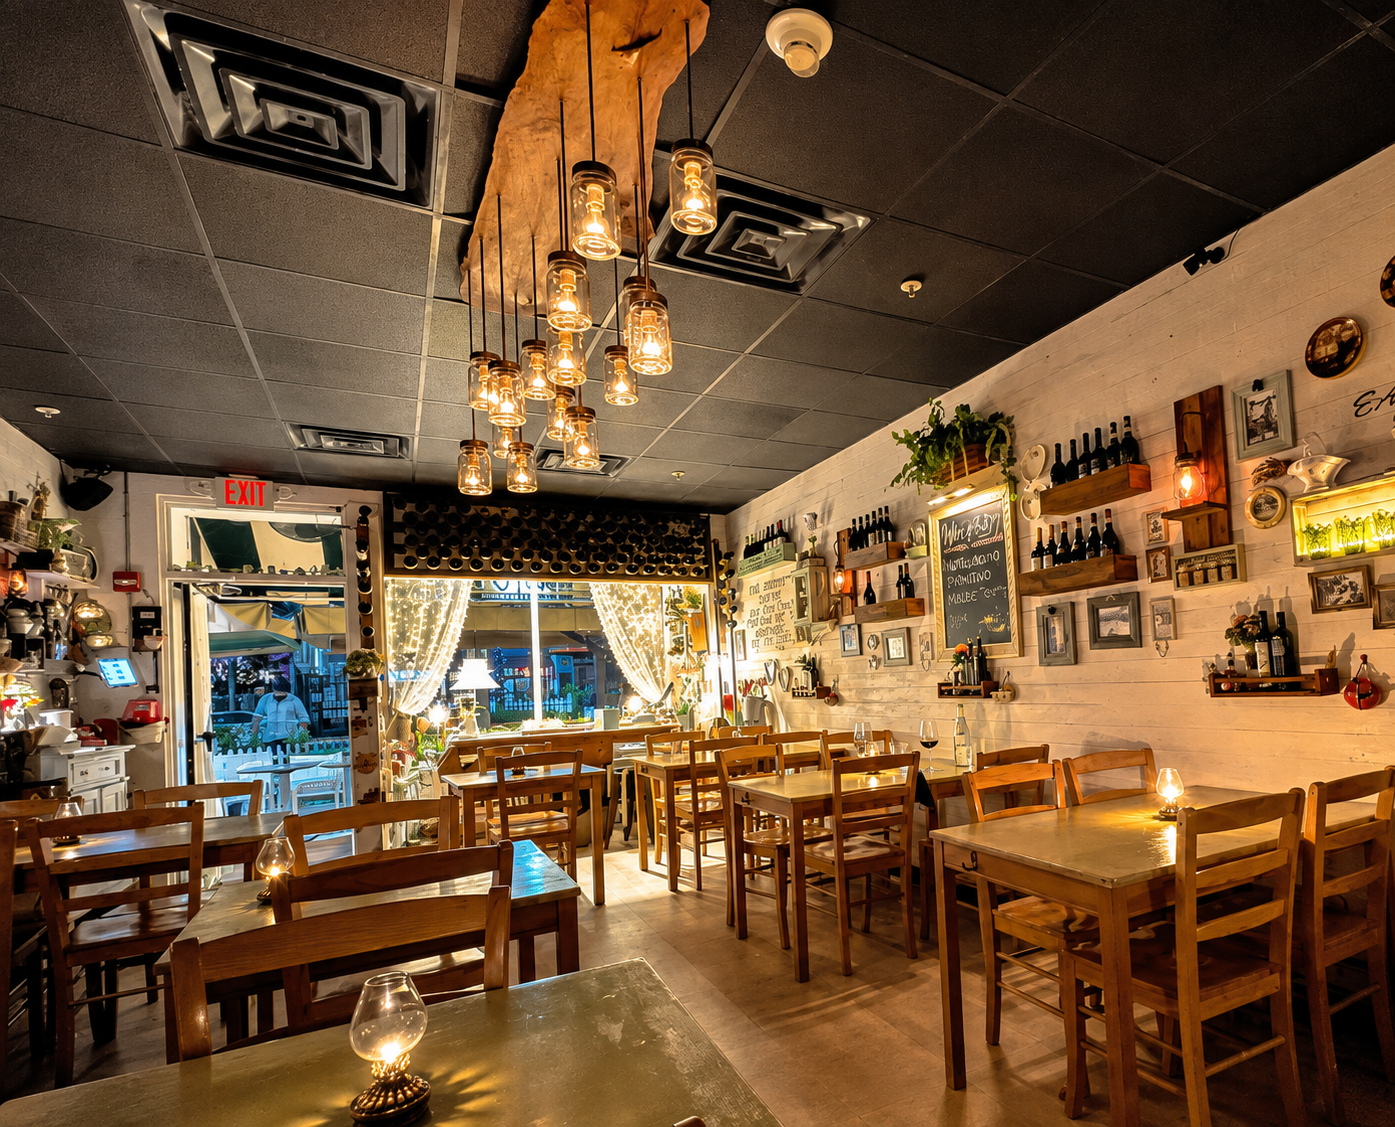
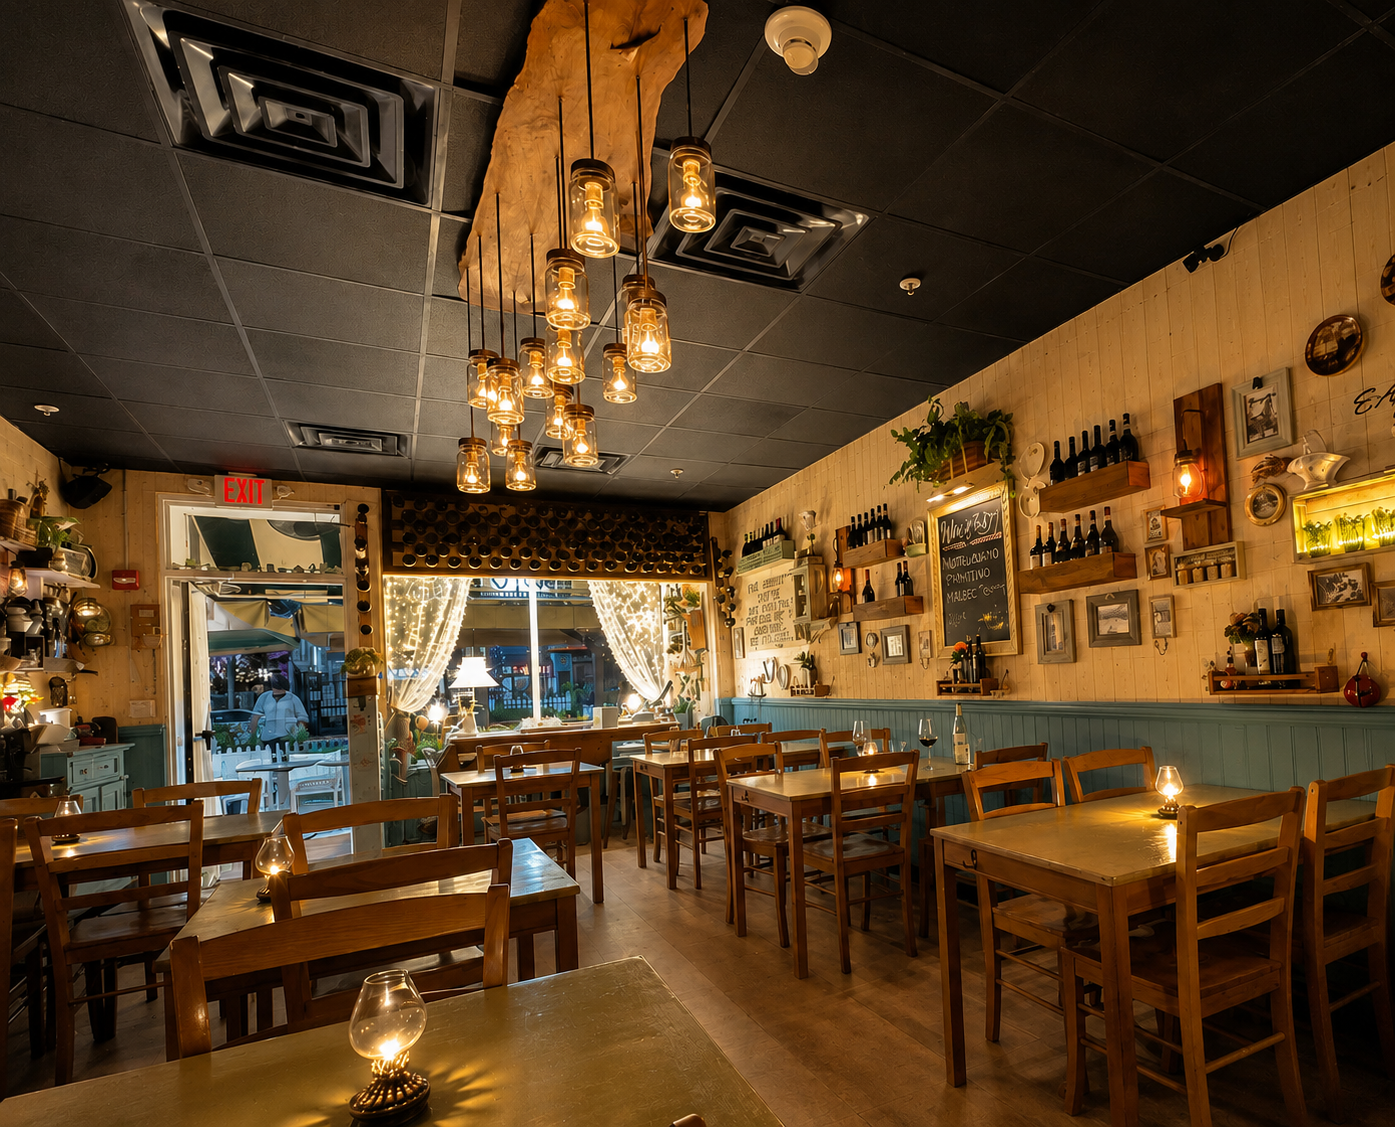
new images

diff --git a/src/data/menu.ts b/src/data/menu.ts
@@ -1,9 +1,10 @@
 import { assetUrl } from "@/lib/utils";
 
-const steak = assetUrl("/img/steak.jpg");
+const steak = assetUrl("/img/Steak.jpg");
 const focaccia = assetUrl("/img/focaccia.jpg");  
 const table = assetUrl("/img/tableFood.jpg");
-const wine = assetUrl("/img/hero-wine.jpg");
+const pizza = assetUrl("/img/Pizza.jpg");
+const pizza2 = assetUrl("/img/pizzaSlanted.jpg");
 
 export type DietaryTag =
   | "Vegan"
@@ -35,7 +36,7 @@ export const MENU: Record<MenuService, MenuItem[]> = {
       description:
         "Slow-fermented for 48 hours, baked at midday, torn at the table with Sicilian olive oil.",
       price: "£6.50",
-      image: focaccia,
+      image: pizza,
       course: "Antipasti",
       tags: ["Vegan"],
     },
@@ -51,7 +52,7 @@ export const MENU: Record<MenuService, MenuItem[]> = {
       name: "Tagliatelle Cacio e Pepe",
       description: "Hand-rolled ribbons, Pecorino Romano, cracked Tellicherry pepper.",
       price: "£14.00",
-      image: steak,
+      image: pizza2,
       course: "Primi",
       tags: ["Vegetarian", "Contains Dairy"],
     },
@@ -67,7 +68,7 @@ export const MENU: Record<MenuService, MenuItem[]> = {
       name: "Panna Cotta al Limone",
       description: "Amalfi lemon, single cream set soft, candied peel.",
       price: "£7.00",
-      image: focaccia,
+      image: pizza,
       course: "Dolci",
       tags: ["Vegetarian", "Contains Dairy", "Gluten-Free"],
     },
@@ -85,7 +86,7 @@ export const MENU: Record<MenuService, MenuItem[]> = {
       name: "Bucatini all'Amatriciana",
       description: "Guanciale rendered slow, San Marzano, a whisper of chilli.",
       price: "£17.00",
-      image: steak,
+      image: pizza2,
       course: "Primi",
       tags: ["Contains Dairy"],
     },
@@ -101,7 +102,7 @@ export const MENU: Record<MenuService, MenuItem[]> = {
       name: "Branzino al Forno",
       description: "Whole sea bass baked with lemon, capers and new season olive oil.",
       price: "£24.00",
-      image: steak,
+      image: pizza,
       course: "Secondi",
       tags: ["Gluten-Free", "Halal"],
     },
@@ -109,7 +110,7 @@ export const MENU: Record<MenuService, MenuItem[]> = {
       name: "Melanzane alla Parmigiana",
       description: "Layered aubergine, slow tomato, Parmigiano crust, baked to order.",
       price: "£16.00",
-      image: focaccia,
+      image: table,
       course: "Secondi",
       tags: ["Vegetarian", "Contains Dairy", "Gluten-Free"],
     },
@@ -117,7 +118,7 @@ export const MENU: Record<MenuService, MenuItem[]> = {
       name: "Tiramisù della Nonna",
       description: "Savoiardi soaked in Bologna espresso, mascarpone whipped to order.",
       price: "£8.00",
-      image: focaccia,
+      image: table,
       course: "Dolci",
       tags: ["Vegetarian", "Contains Dairy"],
     },
@@ -153,7 +154,7 @@ export const MENU: Record<MenuService, MenuItem[]> = {
       name: "Negroni Sbagliato",
       description: "Campari, vermouth rosso, topped with Franciacorta.",
       price: "£10.00",
-      image: wine,
+      image: pizza,
       course: "Cantina",
       tags: ["Vegan", "Gluten-Free"],
     },
@@ -161,7 +162,7 @@ export const MENU: Record<MenuService, MenuItem[]> = {
       name: "Chianti Classico, Riserva",
       description: "Tuscany. Sour cherry, leather, a long dusty finish.",
       price: "£38.00 bottle",
-      image: wine,
+      image: pizza2,
       course: "Cantina",
       tags: ["Vegan"],
     },
@@ -169,7 +170,7 @@ export const MENU: Record<MenuService, MenuItem[]> = {
       name: "Etna Bianco, Carricante",
       description: "Sicily. Volcanic salt, white peach, a cold stone finish.",
       price: "£42.00 bottle",
-      image: wine,
+      image: pizza2,
       course: "Cantina",
       tags: ["Vegan", "Gluten-Free"],
     },

diff --git a/src/components/GalleryStrip.tsx b/src/components/GalleryStrip.tsx
@@ -12,17 +12,21 @@ import { assetUrl } from "@/lib/utils";
 const inkGrapes = assetUrl("/img/ink-grapes.png");
 const inkPattern = assetUrl("/img/ink-pattern.png");
 
-const BASE_IMAGES = [
-  { src: assetUrl("/img/interior.jpg"), alt: "The dining room set for the evening", caption: "La sala" },
-  { src: assetUrl("/img/focaccia.jpg"), alt: "Hand-shaped focaccia dough proving", caption: "Fatto a mano" },
-  { src: assetUrl("/img/wineLights.jpg"), alt: "Candlelight caught in a glass of red wine", caption: "La cantina" },
-  { src: assetUrl("/img/Resturant.jpg"), alt: "Wine poured in the cellar", caption: "Il vino" },
-  { src: assetUrl("/img/winePair.jpg"), alt: "A pairing laid out on the stone counter", caption: "Il forno" },
+const GALLERY_IMAGES = [
+  { src: assetUrl("/img/Interior2.jpg"), alt: "Warmly lit dining room with wooden tables, chairs and wine bottles displayed along the walls" },
+  { src: assetUrl("/img/interior3.jpg"), alt: "Restaurant dining area with wooden tables, blue chairs and light wood panelled walls" },
+  { src: assetUrl("/img/interiorWall.jpg"), alt: "Light wood panelled restaurant wall decorated with framed artwork, wine bottles and greenery" },
+  { src: assetUrl("/img/resturant.jpg"), alt: "Cosy restaurant interior with wooden tables, warm pendant lighting and wine displayed on the walls" },
+  { src: assetUrl("/img/winePair.jpg"), alt: "Wine and dining details arranged inside the restaurant" },
+  { src: assetUrl("/img/heroWall.jpg"), alt: "Decorative restaurant wall with wooden shelving, wine bottles, framed pictures and plants" },
+  { src: assetUrl("/img/heroWall2.jpg"), alt: "Warm restaurant interior featuring wooden walls, wine displays and ambient lighting" },
+  { src: assetUrl("/img/wallClose.jpg"), alt: "Close-up of the restaurant's wooden feature wall with wine bottles and decorative details" },
+  { src: assetUrl("/img/wallClose2.jpg"), alt: "Detailed view of the restaurant wall featuring wine bottles, artwork and rustic wooden shelving" },
 ];
 
 // Three copies back to back — the middle copy is where we start, giving
 // room to drag either direction before the loop-reset kicks in.
-const STRIP_IMAGES = [...BASE_IMAGES, ...BASE_IMAGES, ...BASE_IMAGES];
+const STRIP_IMAGES = [...GALLERY_IMAGES, ...GALLERY_IMAGES, ...GALLERY_IMAGES];
 
 // Alternating vertical offsets so the strip hangs unevenly, like a contact sheet.
 const OFFSETS = ["md:mt-0", "md:mt-10", "md:mt-2", "md:mt-12", "md:mt-4"];

diff --git a/src/components/SignatureDish.tsx b/src/components/SignatureDish.tsx
@@ -11,19 +11,19 @@ const pairing = assetUrl("/img/wineParing.jpg");
 const PLATES = [
   {
     src: steak,
-    label: "Cacio e Pepe",
-    alt: "Tagliatelle cacio e pepe twirled on a fork above a dark bowl",
-    note: "Egg pasta rolled at nine, Pecorino aged eight months, pepper toasted to order.",
+    label: "Steak Frites",
+    alt: "A perfectly cooked steak with crispy fries",
+    note: "Premium cut, seasoned and grilled to perfection.",
   },
   {
     src: steak2,
-    label: "Steak",
+    label: "Sirloin Steak",
     alt: "A perfectly cooked steak on a plate",
     note: "Premium cut, seasoned and grilled to perfection.",
   },
   {
     src: table,
-    label: "Table Food",
+    label: "Table Selection",
     alt: "A selection of dishes served on a wooden table",
     note: "A variety of our signature dishes, presented beautifully on a wooden table.",
   },
@@ -45,12 +45,9 @@ export function SignatureDish() {
       <div className="grid gap-12 px-6 py-20 md:grid-cols-2 md:gap-20 md:px-16 md:py-24">
         <div className="order-2 flex flex-col justify-center md:order-1">
           <p className="eyebrow">The Signature</p>
-          <h2 className="mt-4 font-display text-4xl md:text-5xl">Tagliatelle Cacio e Pepe</h2>
+          <h2 className="mt-4 font-display text-4xl md:text-5xl">Steak Frites</h2>
           <p className="mt-8 max-w-prose leading-relaxed text-muted-foreground">
-            Three ingredients, nowhere to hide. Egg pasta rolled thin at nine in the morning,
-            Pecorino Romano aged eight months, and Tellicherry pepper toasted to order. It is
-            emulsified in a copper pan, finished with a ladle of starchy water and nothing else.
-            It has been on the menu since our first service and it is not leaving.
+            A perfectly cooked steak, served with golden, crisp frites and a rich, flavourful sauce. Simple, generous and made for a proper meal — the kind of classic you’ll want to come back for.
           </p>
           <DietaryTags tags={["Vegetarian", "Contains Dairy"]} />
           <a href="/contact" className="btn btn--arch btn--outline mt-10 self-start">

diff --git a/src/routes/events.tsx b/src/routes/events.tsx
@@ -8,11 +8,15 @@ import { assetUrl } from "@/lib/utils";
 const inkWine = assetUrl("/img/ink-wine.png");
 
 const GALLERY_IMAGES = [
-  { src: assetUrl("/img/interior.jpg"), alt: "The dining room at Pane & Vino, tables set for the evening" },
-  { src: assetUrl("/img/focaccia.jpg"), alt: "Stacked slices of freshly baked Roman focaccia" },
-  { src: assetUrl("/img/wineLights.jpg"), alt: "Wine glasses catching candlelight in the cellar" },
-  { src: assetUrl("/img/Resturant.jpg"), alt: "Red wine poured into a glass in the cellar" },
-  { src: assetUrl("/img/winePair.jpg"), alt: "A wine pairing laid out on the counter" },
+  { src: assetUrl("/img/Interior2.jpg"), alt: "Warmly lit dining room with wooden tables, chairs and wine bottles displayed along the walls" },
+  { src: assetUrl("/img/interior3.jpg"), alt: "Restaurant dining area with wooden tables, blue chairs and light wood panelled walls" },
+  { src: assetUrl("/img/interiorWall.jpg"), alt: "Light wood panelled restaurant wall decorated with framed artwork, wine bottles and greenery" },
+  { src: assetUrl("/img/resturant.jpg"), alt: "Cosy restaurant interior with wooden tables, warm pendant lighting and wine displayed on the walls" },
+  { src: assetUrl("/img/winePair.jpg"), alt: "Wine and dining details arranged inside the restaurant" },
+  { src: assetUrl("/img/heroWall.jpg"), alt: "Decorative restaurant wall with wooden shelving, wine bottles, framed pictures and plants" },
+  { src: assetUrl("/img/heroWall2.jpg"), alt: "Warm restaurant interior featuring wooden walls, wine displays and ambient lighting" },
+  { src: assetUrl("/img/wallClose.jpg"), alt: "Close-up of the restaurant's wooden feature wall with wine bottles and decorative details" },
+  { src: assetUrl("/img/wallClose2.jpg"), alt: "Detailed view of the restaurant wall featuring wine bottles, artwork and rustic wooden shelving" },
 ];
 
 const ROTATIONS = ["-rotate-2", "rotate-1", "-rotate-1", "rotate-2", "-rotate-1"];

diff --git a/src/routes/contact.tsx b/src/routes/contact.tsx
@@ -3,7 +3,6 @@ import { ContactForm } from "@/components/ContactForm";
 import { BookingForm } from "@/components/BookingForm";
 import { FindUs } from "@/components/FindUs";
 import { InkPanel } from "@/components/InkPanel";
-import { PrivateDiningDialog } from "@/components/PrivateDiningDialog";
 import { assetUrl } from "@/lib/utils";
 const inkBread = assetUrl("/img/ink-bread.png");
 
@@ -46,15 +45,12 @@ function ContactPage() {
           counter.
         </p>
       </InkPanel>
-        
-      <BookingForm />                                                          {/* Change so the private dining is next to left section not below */}
-      <div className="px-6 pb-16 text-center md:px-16">
-        <PrivateDiningDialog label="Planning something private?" />
-      </div>
-      <div className="rule-line" />
-      
-      <FindUs />
+
+      {/*<BookingForm />*/}
+
       <ContactForm />
+      <div className="rule-line" />
+      <FindUs />
     </main>
   );
 }

diff --git a/src/components/StickyStory.tsx b/src/components/StickyStory.tsx
@@ -1,6 +1,6 @@
 import { assetUrl } from "@/lib/utils";
 
-const focaccia = assetUrl("/img/focaccia.jpg");
+const wall = assetUrl("/img/enhanced.jpg");
 const inkGrapes = assetUrl("/img/ink-grapes.png");
 
 const BLOCKS = [
@@ -28,10 +28,10 @@ export function StickyStory() {
     <div className="sticky-story border-y border-border">
       <div className="sticky-story__media">
         <img
-          src={focaccia}
-          alt="Stacked slices of freshly baked Roman focaccia"
-          width={1000}
-          height={1300}
+          src={wall}
+          alt="Interior of the restaurant"
+          width={400}
+          height={600}
           loading="lazy"
           className="h-[60vh] w-full object-cover md:h-full"
         />

diff --git a/src/components/ContactForm.tsx b/src/components/ContactForm.tsx
@@ -116,6 +116,7 @@
 import { useState, type FormEvent } from "react";
 import { sendEnquiry } from "@/lib/email.functions";
 import { assetUrl } from "@/lib/utils";
+import { PrivateDiningDialog } from "@/components/PrivateDiningDialog";
 const inkWine = assetUrl("/img/ink-wine.png");
 
 const field =
@@ -160,6 +161,9 @@ export function ContactForm() {
           Allergies, celebrations, press, suppliers or a lost umbrella. One of us reads every
           message and replies within a day.
         </p>
+        <div className="mt-8">
+          <PrivateDiningDialog label="Planning something private?" />
+        </div>
       </div>
 
       <form onSubmit={onSubmit} className="grid gap-10 sm:grid-cols-2">

diff --git a/src/components/Hero.tsx b/src/components/Hero.tsx
@@ -1,10 +1,10 @@
 import { useEffect, useRef, useState } from "react";
 import { AnimatePresence, motion, useReducedMotion, useScroll, useTransform } from "motion/react";
 import { assetUrl } from "@/lib/utils";
-const hero1 = assetUrl("/img/interior.jpg");
-const hero2 = assetUrl("/img/wineLights.jpg");
-const hero3 = assetUrl("/img/Resturant.jpg");
-const hero4 = assetUrl("/img/winePair.jpg");
+const hero1 = assetUrl("/img/resturant.jpg");
+const hero2 = assetUrl("/img/heroWall2.jpg");
+const hero3 = assetUrl("/img/Interior2.jpg");
+const hero4 = assetUrl("/img/heroWall.jpg");
 
 const SLIDES = [
   { src: hero1, alt: "Candlelit long table laid for dinner at Pane & Vino", caption: "La sala" },

diff --git a/src/components/ChefSpotlight.tsx b/src/components/ChefSpotlight.tsx
@@ -1,7 +1,7 @@
 import { useLayoutEffect, useRef, useState } from "react";
 import { motion } from "motion/react";
 import { assetUrl } from "@/lib/utils";
-const img = assetUrl("/img/dish-tagliatelle.jpg");
+const img = assetUrl("/img/chefOwner.jpg");
 
 const LOCK_AT = 0.65; // fraction down the image where the text locks in place
 
